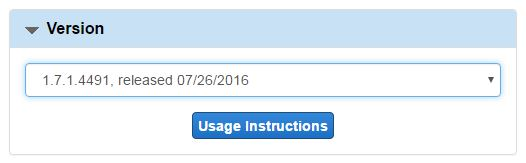
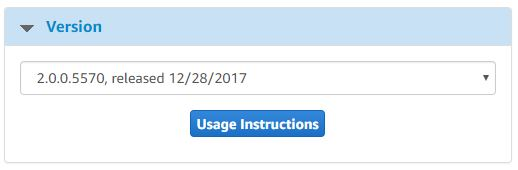
updates for new AMI
updated documentation for amazon

Changed region(s): [[0.0, 0.0307, 0.9884, 0.9509], [0.3398, 0.6442, 0.6486, 0.8589]]

diff --git a/pages/emscloud/emscloud_amazon_deployinstance.md b/pages/emscloud/emscloud_amazon_deployinstance.md
@@ -35,7 +35,7 @@ EMS offers a 30-day free trial use for first-time customers.
 
 To get started with the EvoStream Media Server (EMS) on Amazon EC2 you will first need to purchase an EMS instance through the Amazon Web Services [website](https://aws.amazon.com/marketplace).
 
-1. Search for the EvoStream Media Server in the AWS marketplace, or simply follow this [link](https://aws.amazon.com/marketplace/pp/B00VTR946Y).
+1. Search for the EvoStream Media Server in the AWS marketplace, or simply follow this [link](https://aws.amazon.com/marketplace/pp/B00VTR946Y)
 
    ![](images/emscloud/image1.JPG)
 
@@ -45,65 +45,84 @@ To get started with the EvoStream Media Server (EMS) on Amazon EC2 you will firs
 
    
 
-3. Select what type of EMS instance you will run: *(1-Click Launch or Manual Launch)*
+3. Launch EMS using **1-Click Launch** or **Manual Launch**
 
-- ### 1-Click Launch
+   ![](images/emscloud/launchas.JPG)
 
-  ![](images/emscloud/image3.jpeg)
+   
 
-  The setup for the instance is made easy by the Amazon 1-click Launch utility and the EMS can be successfully deployed with all of the default settings.
+### 1-Click Launch
 
-  A.	Select the **Version** of the EMS to be used
+![](images/emscloud/1click.JPG)
 
-  ![](images/emscloud/image4.JPG)
+**How To:**
 
-  B.	Select the **Region** and **EC2 Instance Type** (size of computer) for your deployment
+A.	Select the **Version** of the EMS to be used
 
-  ![](images/emscloud/region.jpg)
+![](images/emscloud/image4.JPG)
 
-  ![](images/emscloud/image5.JPG)
+B.	Select the **Region** and **EC2 Instance Type** (size of computer) for your deployment
 
-  
+![](images/emscloud/region.jpg)
 
-  **Note:** The EMS can be run on very small computers, including Micro EC2 instances. The size of the instance should be a direct reflection of how much sustained traffic you expect to be hosting. In almost all scenarios you will run out of bandwidth prior to exhausting the CPU or memory limits of the virtual machine.
+![](images/emscloud/image5.JPG)
 
-  
 
-  C.	Select or create the **VPC** and **Subnet** to be used.
 
-  ![](images/emscloud/image6.JPG)
+**Note:**  The EMS can be run on very small computers, including Micro EC2 instances. The size of the instance should be a direct reflection of how much sustained traffic you expect to be hosting. In almost all scenarios you will run out of bandwidth prior to exhausting the CPU or memory limits of the virtual machine. Take note that availability of sizes depends on the Region.
 
-  **Note:** See Amazon documentation on [VPC](http://docs.aws.amazon.com/AmazonVPC/latest/UserGuide/VPC_Introduction.html) for more information.
 
-  
 
-  D.	Choose a **Security Group**
+C.	Select or create the **VPC Settings** to be used.
 
-  ![](images/emscloud/image7.JPG)
+![](images/emscloud/image6.JPG)
 
-  The default security group has been designed to provide outside access to all ports used for streaming. The ports are defined and used as follows:
 
-| **Port** | **Use**                             |
-| -------- | ----------------------------------- |
-| 1112     | Telnet for API (JSON)               |
-| 1113     | (Internal use only)                 |
-| 1222     | Telnet for API (ASCII)              |
-| 1935     | RTMP                                |
-| 1936     | (Internal use only)                 |
-| 22       | SSH                                 |
-| 3389     | RDP                                 |
-| 4443     | RTMP                                |
-| 5000     | (Reserved)                          |
-| 5544     | RTSP                                |
-| 5985     | (Reserved)                          |
-| 6666     | Live FLV                            |
-| 7777     | HTTP for API                        |
-| 8080     | HTTP Requests                       |
-| 8100     | JSON META                           |
-| 8210     | WS JSON META                        |
-| 8410     | WS FMP4                             |
-| 8888     | HTTP for EWS (EvoStream Web Server) |
-| 9999     | MPEG TS                             |
+
+**Note:** See Amazon documentation on [VPC](http://docs.aws.amazon.com/AmazonVPC/latest/UserGuide/VPC_Introduction.html) for more information.
+
+
+
+D.	Choose a **Security Group**
+
+![](images/emscloud/image7.JPG)
+
+
+
+**Create new based on seller settings** - a new security group will be generated by AWS Marketplace. It is based on recommended settings of EMS
+
+![](images/emscloud/secgroup.JPG)
+
+
+
+The security group has been designed to provide outside access to all ports used for streaming. The ports are defined and used as follows:
+
+| **Port** | **Use**                  |
+| -------- | ------------------------ |
+| 22       | SSH                      |
+| 1112     | inboundJsonCli           |
+| 1113     | inboundBinVariant        |
+| 1222     | inboundAsciiCli          |
+| 1935     | inboundRtmp              |
+| 1936     | inboundRtmp (clustering) |
+| 3389     | RDP                      |
+| 4000     | webservicesPort          |
+| 4100     | webuiPort                |
+| 4443     | inboundRtmps (optional)  |
+| 5000     | Reserved                 |
+| 5544     | inboundRtsp              |
+| 5985     | Reserved                 |
+| 6666     | inboundLiveFlv           |
+| 7777     | inboundHttpJsonCli       |
+| 8100     | inboundJsonMeta          |
+| 8210     | wsJsonMeta               |
+| 8410     | inboundWSFMP4            |
+| 8420     | inboundWSSFMP4           |
+| 8433     | wssJsonMeta              |
+| 8888     | webserver                |
+| 9898     | inboundUdTps             |
+| 9998     | inboundTcpTs             |
+| 9999     | inboundHttpFmp4          |
 
 These Security Settings can be changed but it will impact the accessibility of the streams on your server.
 
@@ -114,6 +133,8 @@ These Security Settings can be changed but it will impact the accessibility of t
 E.	Choose or create a **Key Pair**
 
 ![](/images/emscloud/image8.JPG)
+
+
 
 Either choose an existing key pair for instance access or create a new one for your account. If you choose an existing pair you **MUST** have the .pem file already downloaded from that pair. Amazon does not allow you to download key pairs a second time.
 
@@ -127,11 +148,11 @@ F.	Review the settings created, click on **Launch with 1-Click**
 
 
 
-- ### Manual Launch
+### Manual Launch
 
-![](images/emscloud/image10.jpeg)
+![](images/emscloud/manual.JPG)
 
-
+**How To:**
 
 **Step 1: Choose AMI**
 
@@ -143,7 +164,11 @@ A.	Select the **EMS version** to be used
 
 B.	Click the **Launch with EC2 Console** of the chosen **Region**
 
-![]../images/emscloud/region_man.JPG)
+![](/images/emscloud/region_man.JPG)
+
+**Note:** The security group used in this is the default settings
+
+![](/images/emscloud/manualsecgrp.JPG)
 
 
 
@@ -151,7 +176,7 @@ B.	Click the **Launch with EC2 Console** of the chosen **Region**
 
 You will now be redirected to the **Launch Instance Wizard in Step 2**. You may launch or with continue the configuration of the image.
 
-C.	Select the **Instance Type** to be used. You may **Review and Launch** the AMI or click **Next** to continue with the configuration
+Select the **Instance Type** to be used. You may **Review and Launch** the AMI or click **Next** to continue with the configuration
 
 ![](images/emscloud/instancetype.JPG)
 
@@ -159,7 +184,7 @@ C.	Select the **Instance Type** to be used. You may **Review and Launch** the AM
 
 **Step 3: Configure Instance Details**
 
-D.	Configure the instance to suit your requirements. You may **Review and Launch** the AMI or click **Next** to continue with the configuration
+Configure the instance to suit your requirements. You may **Review and Launch** the AMI or click **Next** to continue with the configuration
 
 ![](images/emscloud/instance.JPG)
 
@@ -167,19 +192,19 @@ D.	Configure the instance to suit your requirements. You may **Review and Launch
 
 **Step 4: Add Storage**
 
-E.	**Add New Volume** or you may **Review and Launch** the AMI or click **Next** to continue with the configuration
+**Add New Volume** or you may **Review and Launch** the AMI or click **Next** to continue with the configuration
 
 ![](images/emscloud/volume.JPG)
 
 
 
-F.	Add a tag for the instance or you may **Review and Launch** the AMI or click **Next** to continue with the configuration
+**Add a tag** for the instance or you may **Review and Launch** the AMI or click **Next** to continue with the configuration
 
 ![](images/emscloud/tag.JPG)
 
 
 
-G.	**Create** or **select** the **security group** to be used then click **Review and Launch**
+**Create** or **select** the **security group** to be used then click **Review and Launch**
 
 ![](images/emscloud/securitygroup.JPG)
 
@@ -187,13 +212,13 @@ G.	**Create** or **select** the **security group** to be used then click **Revie
 
 **Step 7: Review and Launch**
 
-H.	Review the configuration made, click **Launch** or go back to modify the changes
+Review the configuration made, click **Launch** or go back to modify the changes
 
 ![](images/emscloud/review.JPG)
 
 
 
-I.	A window for the keys will prompt. Select an existing key pair or create or proceed without the key pair to be used. Click **Launch instances**
+A window for the keys will prompt. Select an existing key pair or create or proceed without the key pair to be used. Click **Launch instances**
 
 ![](images/emscloud/keypair.jpg)
 
